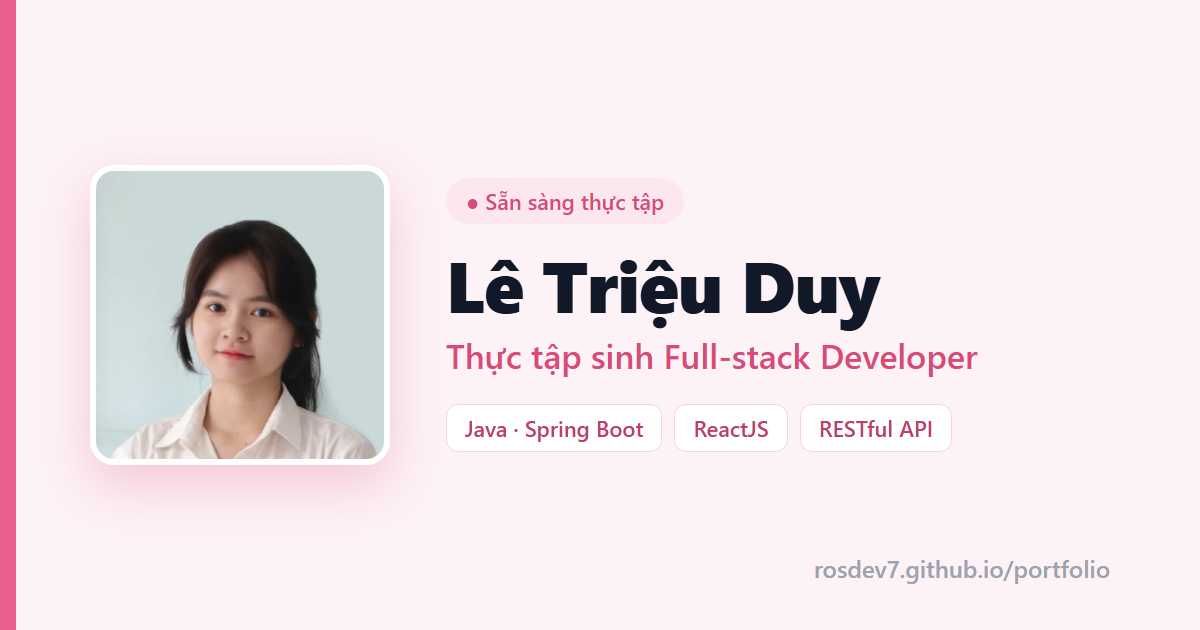
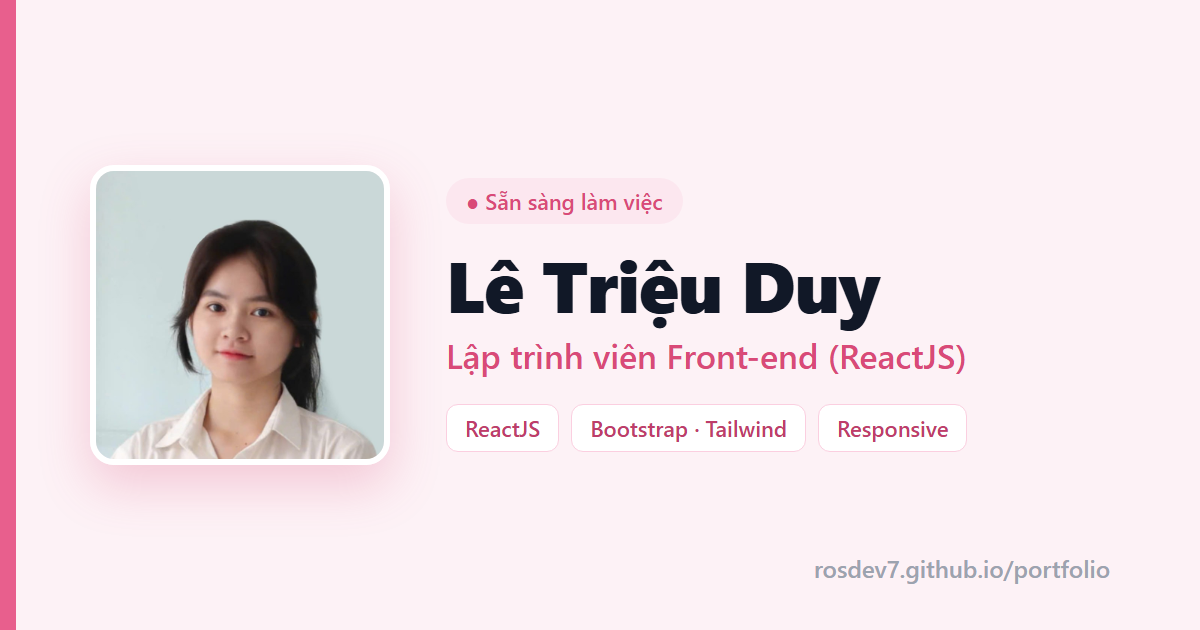
Dinh huong portfolio sang Front-end: vai tro, gioi thieu, ky nang, SEO, OG

Changed region(s): [[0.37, 0.5429, 0.8325, 0.6032], [0.37, 0.6635, 0.8017, 0.7238], [0.4625, 0.3016, 0.555, 0.3317]]

diff --git a/index.html b/index.html
@@ -3,11 +3,11 @@
 <head>
     <meta charset="UTF-8">
     <meta name="viewport" content="width=device-width, initial-scale=1.0">
-    <title>Lê Triệu Duy — Thực tập sinh Full-stack Developer</title>
+    <title>Lê Triệu Duy — Lập trình viên Front-end (ReactJS)</title>
 
     <!-- SEO -->
-    <meta name="description" content="Portfolio của Lê Triệu Duy — Sinh viên CNTT (GPA 3.58/4.0), định hướng Full-stack Developer với Java Spring Boot, ReactJS và RESTful API. Đang tìm cơ hội thực tập lập trình.">
-    <meta name="keywords" content="Lê Triệu Duy, Full-stack Developer, Thực tập sinh lập trình, Java, Spring Boot, ReactJS, Portfolio">
+    <meta name="description" content="Portfolio của Lê Triệu Duy — Lập trình viên Front-end với ReactJS, HTML5, CSS3, JavaScript, Bootstrap & Tailwind CSS. Chuyên chuyển thiết kế sang giao diện web chuẩn Responsive và tích hợp API.">
+    <meta name="keywords" content="Lê Triệu Duy, Front-end Developer, Lập trình viên Front-end, ReactJS, JavaScript, HTML, CSS, Bootstrap, Tailwind, Responsive, Portfolio">
     <meta name="author" content="Lê Triệu Duy">
     <meta name="theme-color" content="#e85f8d">
     <link rel="canonical" href="https://rosdev7.github.io/portfolio/">
@@ -19,8 +19,8 @@
     <!-- Open Graph / Facebook / Zalo -->
     <meta property="og:type" content="website">
     <meta property="og:url" content="https://rosdev7.github.io/portfolio/">
-    <meta property="og:title" content="Lê Triệu Duy — Thực tập sinh Full-stack Developer">
-    <meta property="og:description" content="Sinh viên CNTT (GPA 3.58/4.0), định hướng Full-stack với Java Spring Boot & ReactJS. Đang tìm cơ hội thực tập lập trình.">
+    <meta property="og:title" content="Lê Triệu Duy — Lập trình viên Front-end (ReactJS)">
+    <meta property="og:description" content="Lập trình viên Front-end với ReactJS, HTML5, CSS3, JavaScript, Bootstrap & Tailwind CSS. Chuyên chuyển thiết kế sang giao diện Responsive và tích hợp API.">
     <meta property="og:image" content="https://rosdev7.github.io/portfolio/assets/og.png">
     <meta property="og:image:width" content="1200">
     <meta property="og:image:height" content="630">
@@ -28,8 +28,8 @@
 
     <!-- Twitter -->
     <meta name="twitter:card" content="summary_large_image">
-    <meta name="twitter:title" content="Lê Triệu Duy — Thực tập sinh Full-stack Developer">
-    <meta name="twitter:description" content="Sinh viên CNTT (GPA 3.58/4.0), định hướng Full-stack với Java Spring Boot & ReactJS.">
+    <meta name="twitter:title" content="Lê Triệu Duy — Lập trình viên Front-end (ReactJS)">
+    <meta name="twitter:description" content="Lập trình viên Front-end với ReactJS, HTML5, CSS3, JavaScript, Bootstrap & Tailwind CSS.">
     <meta name="twitter:image" content="https://rosdev7.github.io/portfolio/assets/og.png">
 
     <link rel="stylesheet" href="assets/tailwind.css">
@@ -55,14 +55,14 @@
       "@context": "https://schema.org",
       "@type": "Person",
       "name": "Lê Triệu Duy",
-      "jobTitle": "Thực tập sinh Full-stack Developer",
+      "jobTitle": "Lập trình viên Front-end (ReactJS)",
       "email": "mailto:duyle3352@gmail.com",
       "telephone": "+84968794894",
       "url": "https://rosdev7.github.io/portfolio/",
       "image": "https://rosdev7.github.io/portfolio/assets/avatar.png",
       "address": { "@type": "PostalAddress", "addressLocality": "TP. Hồ Chí Minh", "addressCountry": "VN" },
       "sameAs": ["https://github.com/rosdev7"],
-      "knowsAbout": ["Java", "Spring Boot", "ReactJS", "JavaScript", "RESTful API", "SQL Server"],
+      "knowsAbout": ["ReactJS", "JavaScript", "HTML5", "CSS3", "Bootstrap", "Tailwind CSS", "Responsive Web", "RESTful API"],
       "alumniOf": { "@type": "CollegeOrUniversity", "name": "Đại học Giao thông Vận tải TP.HCM" }
     }
     </script>
@@ -101,13 +101,13 @@
                     </div>
                     <div class="min-w-0">
                         <span class="inline-flex items-center gap-1.5 mb-3 px-3 py-1 text-xs font-medium rounded-full bg-rosep-100 text-rosep-600">
-                            <span class="pulse-dot w-1.5 h-1.5 rounded-full bg-rosep-500"></span> Sẵn sàng thực tập
+                            <span class="pulse-dot w-1.5 h-1.5 rounded-full bg-rosep-500"></span> Sẵn sàng làm việc
                         </span>
                         <h1 class="text-3xl font-bold tracking-tight mb-2">Lê Triệu Duy</h1>
-                        <p class="text-neutral-700 text-lg mb-3">Thực tập sinh Full-stack Developer</p>
+                        <p class="text-neutral-700 text-lg mb-3">Lập trình viên Front-end (ReactJS)</p>
                         <p class="text-neutral-500 text-sm max-w-lg leading-relaxed mb-4">
-                            Sinh viên CNTT (GPA: 3.58/4.0), định hướng Full-stack với Java Spring Boot và React.
-                            Có kinh nghiệm tự thiết kế hệ thống thương mại điện tử và lập trình mạng thời gian thực.
+                            Sinh viên năm cuối CNTT (GPA: 3.58/4.0), chuyên lập trình Front-end với ReactJS, HTML5, CSS3 và JavaScript.
+                            Thành thạo chuyển thiết kế sang giao diện web chuẩn Responsive và tích hợp RESTful API với hệ thống Back-end.
                         </p>
                         <p class="text-neutral-500 text-sm flex flex-wrap items-center gap-x-2 gap-y-1">
                             <span class="inline-flex items-center gap-1">
@@ -156,50 +156,46 @@
                 Kỹ năng kỹ thuật
             </h2>
             <div class="grid grid-cols-1 sm:grid-cols-2 gap-4 text-sm">
-                <div class="p-4 bg-white border border-rosep-100 rounded-xl hover:border-rosep-300 transition">
-                    <span class="font-semibold block mb-2">Ngôn ngữ</span>
+                <div class="p-4 bg-white border border-rosep-100 rounded-xl hover:border-rosep-300 transition sm:col-span-2">
+                    <span class="font-semibold block mb-2">Front-end</span>
                     <div class="flex flex-wrap gap-2">
-                        <span class="px-2.5 py-1 rounded-full bg-rosep-50 text-rosep-600 text-xs">Java</span>
+                        <span class="px-2.5 py-1 rounded-full bg-rosep-50 text-rosep-600 text-xs">ReactJS</span>
+                        <span class="px-2.5 py-1 rounded-full bg-rosep-50 text-rosep-600 text-xs">HTML5</span>
+                        <span class="px-2.5 py-1 rounded-full bg-rosep-50 text-rosep-600 text-xs">CSS3</span>
                         <span class="px-2.5 py-1 rounded-full bg-rosep-50 text-rosep-600 text-xs">JavaScript (ES6+)</span>
-                        <span class="px-2.5 py-1 rounded-full bg-rosep-50 text-rosep-600 text-xs">C#</span>
-                    </div>
-                </div>
-                <div class="p-4 bg-white border border-rosep-100 rounded-xl hover:border-rosep-300 transition">
-                    <span class="font-semibold block mb-2">Backend</span>
-                    <div class="flex flex-wrap gap-2">
-                        <span class="px-2.5 py-1 rounded-full bg-rosep-50 text-rosep-600 text-xs">Spring Boot</span>
-                        <span class="px-2.5 py-1 rounded-full bg-rosep-50 text-rosep-600 text-xs">Spring Security</span>
-                        <span class="px-2.5 py-1 rounded-full bg-rosep-50 text-rosep-600 text-xs">Spring Data JPA</span>
-                        <span class="px-2.5 py-1 rounded-full bg-rosep-50 text-rosep-600 text-xs">RESTful API</span>
-                    </div>
-                </div>
-                <div class="p-4 bg-white border border-rosep-100 rounded-xl hover:border-rosep-300 transition">
-                    <span class="font-semibold block mb-2">Frontend</span>
-                    <div class="flex flex-wrap gap-2">
-                        <span class="px-2.5 py-1 rounded-full bg-rosep-50 text-rosep-600 text-xs">React</span>
-                        <span class="px-2.5 py-1 rounded-full bg-rosep-50 text-rosep-600 text-xs">React Router</span>
-                        <span class="px-2.5 py-1 rounded-full bg-rosep-50 text-rosep-600 text-xs">Redux Toolkit</span>
+                        <span class="px-2.5 py-1 rounded-full bg-rosep-50 text-rosep-600 text-xs">Bootstrap</span>
                         <span class="px-2.5 py-1 rounded-full bg-rosep-50 text-rosep-600 text-xs">Tailwind CSS</span>
+                        <span class="px-2.5 py-1 rounded-full bg-rosep-50 text-rosep-600 text-xs">Redux Toolkit</span>
+                        <span class="px-2.5 py-1 rounded-full bg-rosep-50 text-rosep-600 text-xs">React Router</span>
+                        <span class="px-2.5 py-1 rounded-full bg-rosep-50 text-rosep-600 text-xs">Responsive Web</span>
                     </div>
                 </div>
                 <div class="p-4 bg-white border border-rosep-100 rounded-xl hover:border-rosep-300 transition">
-                    <span class="font-semibold block mb-2">Database &amp; Bảo mật</span>
+                    <span class="font-semibold block mb-2">Tích hợp API</span>
                     <div class="flex flex-wrap gap-2">
-                        <span class="px-2.5 py-1 rounded-full bg-rosep-50 text-rosep-600 text-xs">SQL Server</span>
+                        <span class="px-2.5 py-1 rounded-full bg-rosep-50 text-rosep-600 text-xs">RESTful API</span>
+                        <span class="px-2.5 py-1 rounded-full bg-rosep-50 text-rosep-600 text-xs">Axios / Fetch</span>
+                        <span class="px-2.5 py-1 rounded-full bg-rosep-50 text-rosep-600 text-xs">Formik &amp; Yup</span>
                         <span class="px-2.5 py-1 rounded-full bg-rosep-50 text-rosep-600 text-xs">JWT</span>
-                        <span class="px-2.5 py-1 rounded-full bg-rosep-50 text-rosep-600 text-xs">RBAC</span>
-                        <span class="px-2.5 py-1 rounded-full bg-rosep-50 text-rosep-600 text-xs">Clean Architecture</span>
-                        <span class="px-2.5 py-1 rounded-full bg-rosep-50 text-rosep-600 text-xs">OOP</span>
+                    </div>
+                </div>
+                <div class="p-4 bg-white border border-rosep-100 rounded-xl hover:border-rosep-300 transition">
+                    <span class="font-semibold block mb-2">Kiểm thử &amp; Công cụ</span>
+                    <div class="flex flex-wrap gap-2">
+                        <span class="px-2.5 py-1 rounded-full bg-rosep-50 text-rosep-600 text-xs">Cross-browser testing</span>
+                        <span class="px-2.5 py-1 rounded-full bg-rosep-50 text-rosep-600 text-xs">Chrome DevTools</span>
+                        <span class="px-2.5 py-1 rounded-full bg-rosep-50 text-rosep-600 text-xs">Git / GitHub</span>
+                        <span class="px-2.5 py-1 rounded-full bg-rosep-50 text-rosep-600 text-xs">Docker</span>
                     </div>
                 </div>
                 <div class="p-4 bg-white border border-rosep-100 rounded-xl hover:border-rosep-300 transition sm:col-span-2">
-                    <span class="font-semibold block mb-2">Công cụ &amp; Dịch vụ</span>
+                    <span class="font-semibold block mb-2">Kiến thức nền</span>
                     <div class="flex flex-wrap gap-2">
-                        <span class="px-2.5 py-1 rounded-full bg-rosep-50 text-rosep-600 text-xs">Git</span>
-                        <span class="px-2.5 py-1 rounded-full bg-rosep-50 text-rosep-600 text-xs">GitHub</span>
-                        <span class="px-2.5 py-1 rounded-full bg-rosep-50 text-rosep-600 text-xs">Docker</span>
-                        <span class="px-2.5 py-1 rounded-full bg-rosep-50 text-rosep-600 text-xs">VNPay Sandbox</span>
-                        <span class="px-2.5 py-1 rounded-full bg-rosep-50 text-rosep-600 text-xs">Unity</span>
+                        <span class="px-2.5 py-1 rounded-full bg-rosep-50 text-rosep-600 text-xs">Java (Spring Boot)</span>
+                        <span class="px-2.5 py-1 rounded-full bg-rosep-50 text-rosep-600 text-xs">C#</span>
+                        <span class="px-2.5 py-1 rounded-full bg-rosep-50 text-rosep-600 text-xs">SQL Server</span>
+                        <span class="px-2.5 py-1 rounded-full bg-rosep-50 text-rosep-600 text-xs">MySQL</span>
+                        <span class="px-2.5 py-1 rounded-full bg-rosep-50 text-rosep-600 text-xs">OOP</span>
                     </div>
                 </div>
             </div>
@@ -328,7 +324,7 @@
             <div class="p-8 bg-rosep-100 rounded-2xl text-center">
                 <h2 class="text-xl font-bold tracking-tight mb-2">Cùng làm việc nhé!</h2>
                 <p class="text-neutral-600 text-sm mb-6 max-w-md mx-auto leading-relaxed">
-                    Mình đang tìm cơ hội thực tập Full-stack. Nếu thấy phù hợp, cứ liên hệ với mình qua email hoặc Zalo.
+                    Mình đang tìm cơ hội ở vị trí Lập trình viên Front-end. Nếu thấy phù hợp, cứ liên hệ với mình qua email hoặc Zalo.
                 </p>
                 <div class="flex flex-wrap justify-center gap-3">
                     <a href="mailto:duyle3352@gmail.com" class="inline-flex items-center gap-2 px-5 py-2.5 text-sm font-medium bg-rosep-500 text-white rounded-md hover:bg-rosep-600 transition">

diff --git a/assets/og.html b/assets/og.html
@@ -32,13 +32,13 @@
   <div class="bar"></div>
   <img class="photo" src="avatar.png" alt="">
   <div>
-    <span class="badge">● Sẵn sàng thực tập</span>
+    <span class="badge">● Sẵn sàng làm việc</span>
     <div class="name">Lê Triệu Duy</div>
-    <div class="role">Thực tập sinh Full-stack Developer</div>
+    <div class="role">Lập trình viên Front-end (ReactJS)</div>
     <div class="tags">
-      <span class="tag">Java · Spring Boot</span>
       <span class="tag">ReactJS</span>
-      <span class="tag">RESTful API</span>
+      <span class="tag">Bootstrap · Tailwind</span>
+      <span class="tag">Responsive</span>
     </div>
   </div>
   <div class="url">rosdev7.github.io/portfolio</div>
